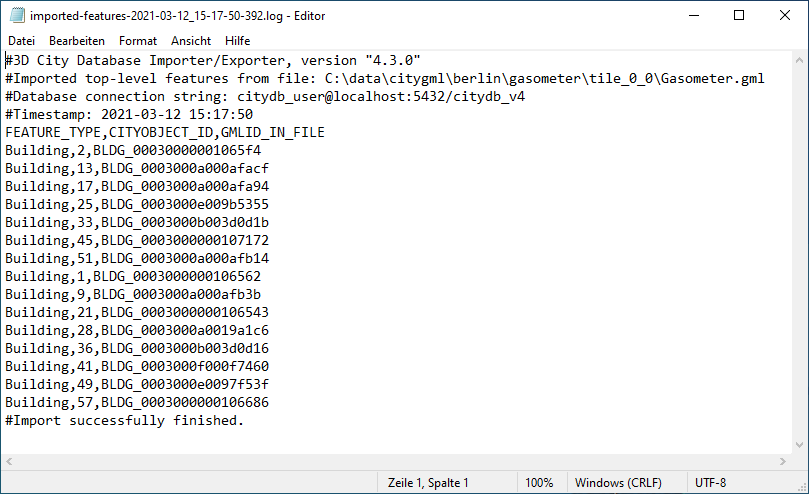
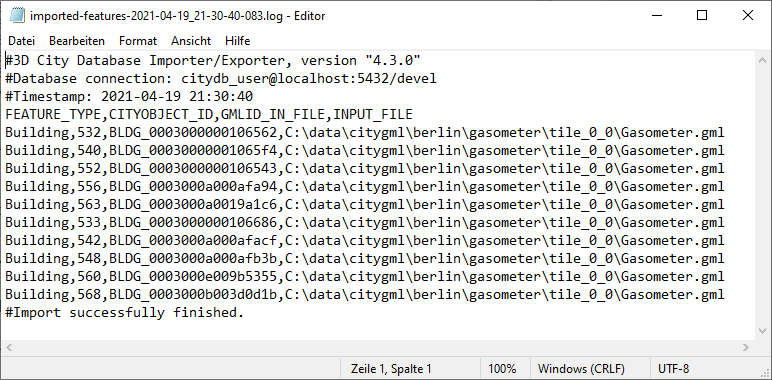
adapted documentation of import log

diff --git a/source/impexp/cli/delete.rst b/source/impexp/cli/delete.rst
@@ -317,13 +317,13 @@ will be deleted from the database.
 .. code-block:: bash
 
    $ impexp delete -H localhost -d citydb_v4 -u citydb_user -p my_password \
-                   -f imported-features.log -I 3
+                   -f imported-features.log -I 2 -C db
 
-Only delete those top-level city objects having an identifier that is contained
+Only delete those top-level city objects having a database ID that is contained
 in the provided delete list ``imported-features.log``.
 The command uses default values for parsing and interpreting
 the delete list except for the index of the column that holds the identifier values,
-which is set to 3.
+which is set to 2, and the type of the identifier, which is set to ``db``.
 
 The above example has been chosen deliberately because it illustrates how
 to use an import log file created by a CityGML/CityJSON import
@@ -335,48 +335,37 @@ The snippet below shows an example.
    :linenos:
 
    #3D City Database Importer/Exporter, version "4.3.0"
-   #Imported top-level features from file: C:\data\citygml\berlin\gasometer\tile_0_0\Gasometer.gml
-   #Database connection string: citydb_user@localhost:5432/citydb_v4
-   #Timestamp: 2021-03-12 15:17:50
-   FEATURE_TYPE,CITYOBJECT_ID,GMLID_IN_FILE
-   Building,2,BLDG_00030000001065f4
-   Building,13,BLDG_0003000a000afacf
-   Building,17,BLDG_0003000a000afa94
-   Building,25,BLDG_0003000e009b5355
-   Building,33,BLDG_0003000b003d0d1b
-   Building,45,BLDG_0003000000107172
-   Building,51,BLDG_0003000a000afb14
-   Building,1,BLDG_0003000000106562
-   Building,9,BLDG_0003000a000afb3b
-   Building,21,BLDG_0003000000106543
-   Building,28,BLDG_0003000a0019a1c6
-   Building,36,BLDG_0003000b003d0d16
-   Building,41,BLDG_0003000f000f7460
-   Building,49,BLDG_0003000e0097f53f
-   Building,57,BLDG_0003000000106686
+   #Database connection: citydb_user@localhost:5432/devel
+   #Timestamp: 2021-04-19 21:30:40
+   FEATURE_TYPE,CITYOBJECT_ID,GMLID_IN_FILE,INPUT_FILE
+   Building,532,BLDG_0003000000106562,C:\data\citygml\berlin\gasometer\tile_0_0\Gasometer.gml
+   Building,540,BLDG_00030000001065f4,C:\data\citygml\berlin\gasometer\tile_0_0\Gasometer.gml
+   Building,552,BLDG_0003000000106543,C:\data\citygml\berlin\gasometer\tile_0_0\Gasometer.gml
+   Building,556,BLDG_0003000a000afa94,C:\data\citygml\berlin\gasometer\tile_0_0\Gasometer.gml
+   Building,563,BLDG_0003000a0019a1c6,C:\data\citygml\berlin\gasometer\tile_0_0\Gasometer.gml
+   Building,533,BLDG_0003000000106686,C:\data\citygml\berlin\gasometer\tile_0_0\Gasometer.gml
+   Building,542,BLDG_0003000a000afacf,C:\data\citygml\berlin\gasometer\tile_0_0\Gasometer.gml
+   Building,548,BLDG_0003000a000afb3b,C:\data\citygml\berlin\gasometer\tile_0_0\Gasometer.gml
+   Building,560,BLDG_0003000e009b5355,C:\data\citygml\berlin\gasometer\tile_0_0\Gasometer.gml
+   Building,568,BLDG_0003000b003d0d1b,C:\data\citygml\berlin\gasometer\tile_0_0\Gasometer.gml
    #Import successfully finished.
 
-The import log uses a comma ``,`` as delimiter. Lines 1-4 and line 21 are
+The import log uses a comma ``,`` as delimiter. Lines 1-3 and line 15 are
 comments starting with the comment marker ``#`` and should therefore be ignored.
-Line 5 is used as header to provide column names for the subsequent rows.
-The actual content is therefore provided in lines 6-20. Each row consists
-of three columns, and the third column ``GMLID_IN_FILE`` contains the object
-identifiers of the imported top-level features.
+Line 4 is used as header to provide column names for the subsequent rows.
+The actual content is therefore provided in lines 5-14. Each row consists
+of four columns, and the second column ``CITYOBJECT_ID`` contains the database
+ID of the imported top-level features.
 
 As you can see from the above example, the default CSV options of the
 ``delete`` command are already suited to correctly identify the comments, the header, and
 the separate columns of the import log file. As mentioned above, we only
-have to specify the correct column index of the identifier values on the command line.
+have to specify that we want to use database IDs as identifiers and provide
+the correct column index on the command line.
 
 .. note::
-   The second column ``CITYOBJECT_ID`` of the import log file holds the database IDs of the
-   imported city objects. To use the database IDs in the delete process, you have to use
-   ``-I 2`` to specify the second column and ``-C db`` to denote that the identifiers
-   stored in this column are database IDs. **This is even the preferred way for using an import log
-   as delete list** because database IDs are guaranteed to be unique.
-
-
-
-
-
-
+   The third column ``GMLID_IN_FILE`` of the import log file holds the object identifier of the
+   imported city objects. To use this object identifier in the delete process, you just have to use
+   ``-I 3`` to specify the third column and omit the additional ``-C db`` option.
+   **However, be careful when using the** ``GMLID_IN_FILE`` **values because the object identifiers
+   in the database might be different due to import preference settings.**

diff --git a/source/impexp/import-preferences/import-log.rst b/source/impexp/import-preferences/import-log.rst
@@ -38,15 +38,14 @@ top-level feature. The following figure shows an example.
 
    Example import log.
 
-The first four lines of the import log contain metadata about the
-*version of the Import/Exporter* that was used for the import, the
-*absolute path to the CityGML input file*, the database *connection
-string*, and the *timestamp of the import*. Each metadata line starts
-with the ``#`` character as comment marker.
+The first three lines of the import log contain metadata about the
+*version of the Import/Exporter* that was used for the import,
+the database *connection string*, and the *timestamp of the import*.
+Each metadata line starts with the ``#`` character as comment marker.
 
 The first line below the metadata block provides a header for the fields
-of each record. The field names are FEATURE_TYPE, CITYOBJECT_ID, and
-GMLID_IN_FILE. A single comma separates the fields. The records follow
+of each record. The field names are FEATURE_TYPE, CITYOBJECT_ID, GMLID_IN_FILE,
+and INPUT_FILE. A single comma separates the fields. The records follow
 the header line. The meaning of the fields is as follows.
 
 .. list-table::  Fields of the CSV import log file
@@ -60,7 +59,9 @@ the header line. The meaning of the fields is as follows.
    * - | CITYOBJECT_ID
      - | The value of the ID column (primary key) of the CITYOBJECT table where the feature was inserted.
    * - | GMLID_IN_FILE
-     - | The original gml:id value of the feature in the input file (might differ in database due to import settings).
+     - | The original object identifier of the feature in the input file (might differ in database due to import settings).
+   * - | INPUT_FILE
+     - | The path of the input file from which the feature was imported.
 
 The last line of each import log is a footer that contains metadata
 about whether the import was *successfully finished* or *aborted*.
@@ -72,5 +73,5 @@ about whether the import was *successfully finished* or *aborted*.
   Simply use the ``delete`` command of the Importer/Exporter command-line
   interface for this purpose. You can directly feed CSV files like the import log
   to this command to delete all features listed in the CSV file (see
-  :numref:`impexp_cli_chapter` for more information). This way, you can
+  :numref:`impexp_cli_delete_command` for more information). This way, you can
   ensure a consistent database state even if an import process fails.
